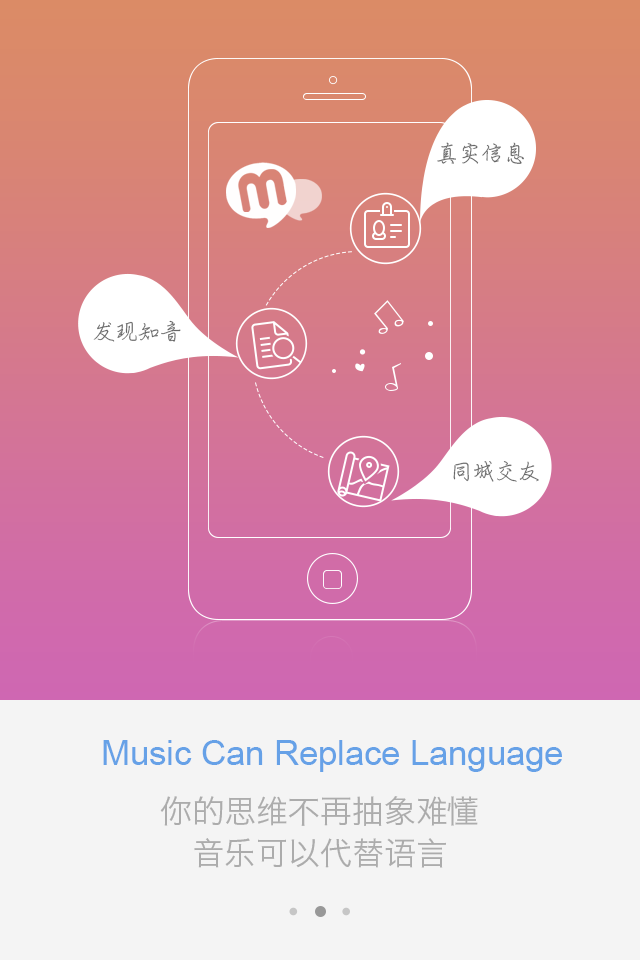
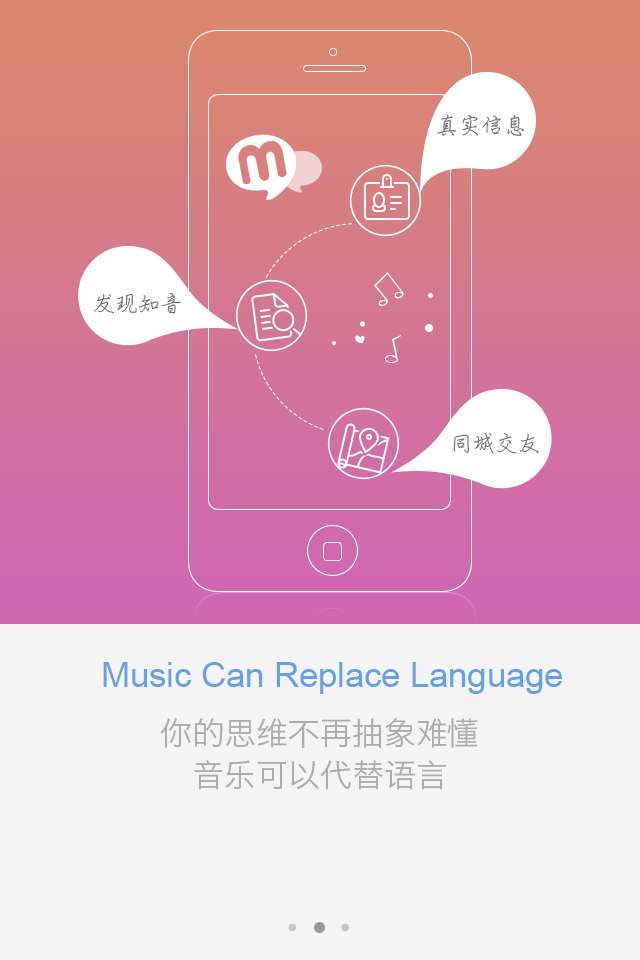
引导适配

diff --git a/miglab_mobile/classes/Guide/StartGuideViewController.m b/miglab_mobile/classes/Guide/StartGuideViewController.m
@@ -29,16 +29,25 @@
     [scrollView setBounces:NO];
     [scrollView setShowsHorizontalScrollIndicator:NO];
     UIImageView *imageview  = nil;
+    NSString *imageName = (kMainScreenFrame.size.height >= 567 ) ? @"startpage%d-568h" : @"startpage%d";
     for (int i = 0; i < guideCount ; ++i)
     {
         imageview = [[UIImageView alloc] initWithFrame:rect];
-        [imageview setImage:[UIImage imageNamed:[NSString stringWithFormat:@"startpage%d",i+1]]];
+        [imageview setImage:[UIImage imageNamed:[NSString stringWithFormat:imageName,i+1]]];
         [scrollView addSubview:imageview];
         rect.origin.x += rect.size.width;
         
     }
     [imageview setUserInteractionEnabled:TRUE];
     [imageview addGestureRecognizer:[[UITapGestureRecognizer alloc]initWithTarget:self  action:@selector(presentViewController)]];
+    
+    imageview = [[UIImageView alloc] initWithImage:[UIImage imageNamed:@"startpage_in_button"]];
+    rect = imageview.frame;
+    rect.origin.x = ((guideCount-1)*CGRectGetWidth(self.view.frame)) + (CGRectGetWidth(self.view.frame) - CGRectGetWidth(rect) )/2 ;
+    rect.origin.y = CGRectGetHeight(self.view.frame) -35 - CGRectGetHeight(rect);
+    [imageview setFrame:rect];
+    [scrollView addSubview:imageview];
+
 }
 
 +(NSString*) showGuideKey
@@ -49,16 +58,17 @@
     return showGuideKey;
 }
 #define kOLDAPPVERSION_KEY @"OldAppVersion"
+#define kCFBundleShortVersionString @"CFBundleShortVersionString"
 +(BOOL) isShowGuide
 {
-    return ! [[[[NSBundle mainBundle] infoDictionary] objectForKey:@"CFBundleShortVersionString"] isEqualToString:[[NSUserDefaults standardUserDefaults] stringForKey:kOLDAPPVERSION_KEY]];
+    return ! [[[[NSBundle mainBundle] infoDictionary] objectForKey:kCFBundleShortVersionString] isEqualToString:[[NSUserDefaults standardUserDefaults] stringForKey:kOLDAPPVERSION_KEY]];
 }
 
 -(void) presentViewController
 {
     UIViewController* desView = [((AppDelegate*)[UIApplication sharedApplication].delegate) navController];
     [self presentViewController:desView animated:NO completion:^{
-        [[NSUserDefaults standardUserDefaults] setObject:[[[NSBundle mainBundle] infoDictionary] objectForKey:@"CFBundleShortVersionString"]  forKey:kOLDAPPVERSION_KEY];
+        [[NSUserDefaults standardUserDefaults] setObject:[[[NSBundle mainBundle] infoDictionary] objectForKey:kCFBundleShortVersionString]  forKey:kOLDAPPVERSION_KEY];
     }];
 }
 
